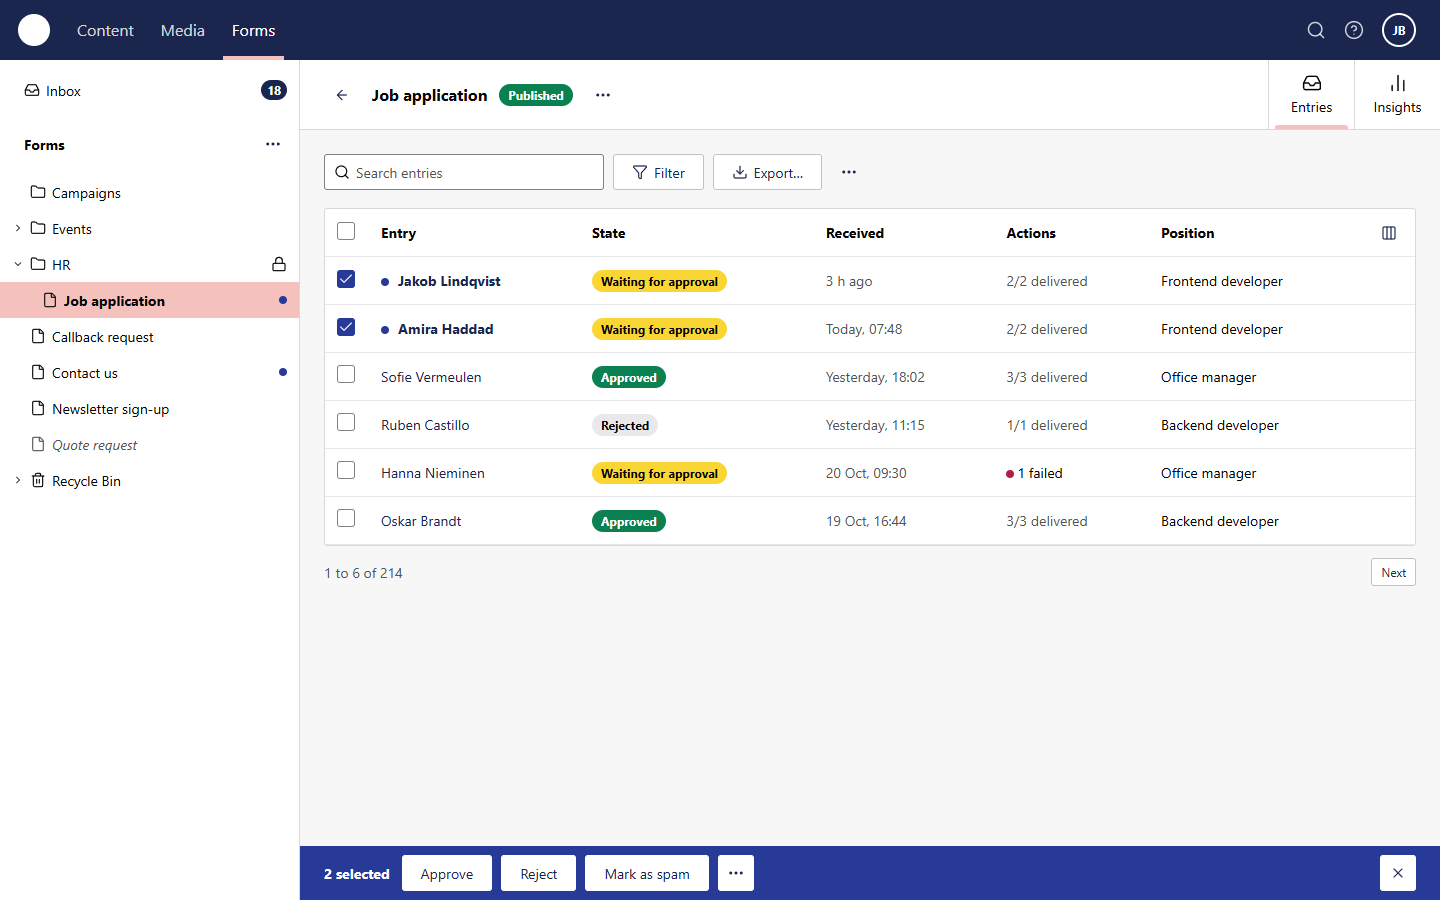
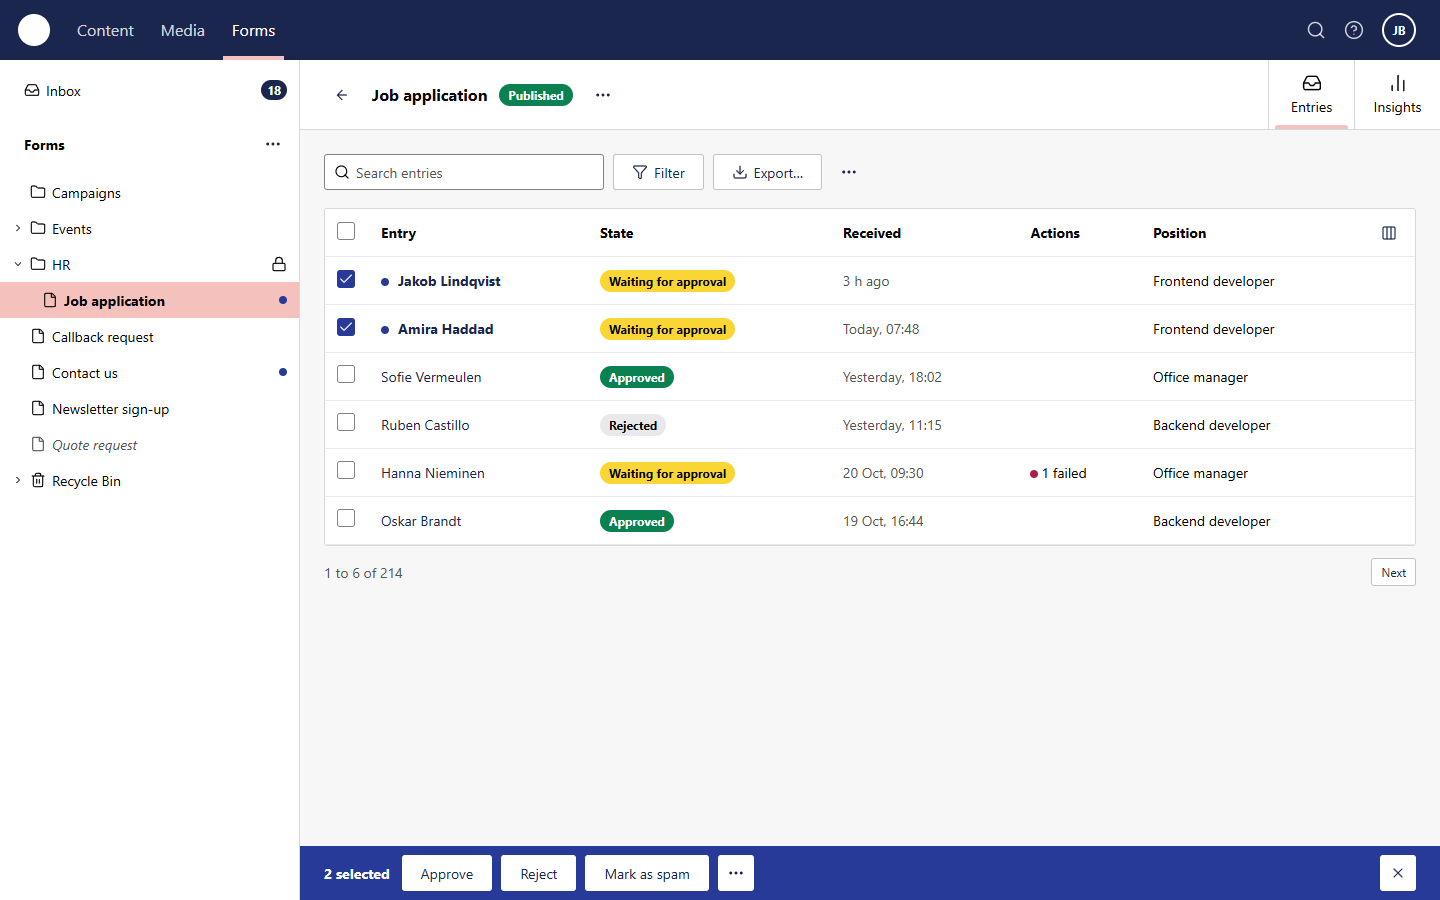
docs(ux): draw the other screens as the pass leaves them
The wireframes of ROADMAP 22.4's pass: the entries' lists and the Inbox
with an "Actions" column that speaks only where something did not go
out, Insights with one "Show as tables" for the screen, and the option
list editor with its rows named by the box's headline. The template
gallery's hidden radios no longer draw the browser's own round shape,
which the checker had found.

diff --git a/docs/ux/wireframes/entries.html b/docs/ux/wireframes/entries.html
@@ -45,8 +45,9 @@
       the form, or preview it and send a test entry".
     - no-results: the chip row's Clear filters is the only one; the sentence points to the filters above.
     - loading, error.
-    At 920 px the Actions and Position columns give way, and a failed delivery shows in the State column,
-    under the chip, so the names keep their width.
+    The Actions column speaks only where something did not go out ("1 failed", "1 uncertain", "2 waiting"); where every
+    action went out, or none ran, its cell is empty (ROADMAP 22.4). At 920 px the Actions and Position columns give way,
+    and a failed delivery shows in the State column, under the chip, so the names keep their width.
   -->
   <main class="wf-main">
     <header class="wf-head">
@@ -95,25 +96,25 @@
               <td class="wf-col-check"><span class="wf-box-check" role="checkbox" aria-checked="false" aria-label="Select entry 214" data-state="default filtered bulk-done export"></span><span class="wf-box-check" role="checkbox" aria-checked="true" aria-label="Select entry 214" data-state="bulk"><i data-i="check"></i></span></td>
               <td><span class="wf-row"><span class="wf-dot"></span><a href="#">Jakob Lindqvist</a><span class="wf-sr">, unseen</span></span></td>
               <td class="en-col-state"><span class="wf-chip wf-chip--warning" data-state="default filtered bulk export">Waiting for approval</span><span class="wf-chip wf-chip--positive" data-state="bulk-done">Approved</span></td>
-              <td class="wf-muted">3 h ago</td><td class="wf-muted en-wide">2/2 delivered</td><td class="en-wide en-col-position">Frontend developer</td><td></td>
+              <td class="wf-muted">3 h ago</td><td class="wf-muted en-wide"></td><td class="en-wide en-col-position">Frontend developer</td><td></td>
             </tr>
             <tr class="wf-unseen" data-state="default filtered bulk bulk-done export">
               <td class="wf-col-check"><span class="wf-box-check" role="checkbox" aria-checked="false" aria-label="Select entry 213" data-state="default filtered bulk-done export"></span><span class="wf-box-check" role="checkbox" aria-checked="true" aria-label="Select entry 213" data-state="bulk"><i data-i="check"></i></span></td>
               <td><span class="wf-row"><span class="wf-dot"></span><a href="#">Amira Haddad</a><span class="wf-sr">, unseen</span></span></td>
               <td class="en-col-state"><span class="wf-chip wf-chip--warning" data-state="default filtered bulk export">Waiting for approval</span><span class="wf-chip wf-chip--positive" data-state="bulk-done">Approved</span></td>
-              <td class="wf-muted">Today, 07:48</td><td class="wf-muted en-wide">2/2 delivered</td><td class="en-wide en-col-position">Frontend developer</td><td></td>
+              <td class="wf-muted">Today, 07:48</td><td class="wf-muted en-wide"></td><td class="en-wide en-col-position">Frontend developer</td><td></td>
             </tr>
             <tr data-state="default bulk bulk-done export">
               <td class="wf-col-check"><span class="wf-box-check" role="checkbox" aria-checked="false" aria-label="Select entry 212"></span></td>
               <td><a href="#">Sofie Vermeulen</a></td>
               <td class="en-col-state"><span class="wf-chip wf-chip--positive">Approved</span></td>
-              <td class="wf-muted">Yesterday, 18:02</td><td class="wf-muted en-wide">3/3 delivered</td><td class="en-wide en-col-position">Office manager</td><td></td>
+              <td class="wf-muted">Yesterday, 18:02</td><td class="wf-muted en-wide"></td><td class="en-wide en-col-position">Office manager</td><td></td>
             </tr>
             <tr data-state="default bulk bulk-done export">
               <td class="wf-col-check"><span class="wf-box-check" role="checkbox" aria-checked="false" aria-label="Select entry 211"></span></td>
               <td><a href="#">Ruben Castillo</a></td>
               <td class="en-col-state"><span class="wf-chip">Rejected</span></td>
-              <td class="wf-muted">Yesterday, 11:15</td><td class="wf-muted en-wide">1/1 delivered</td><td class="en-wide en-col-position">Backend developer</td><td></td>
+              <td class="wf-muted">Yesterday, 11:15</td><td class="wf-muted en-wide"></td><td class="en-wide en-col-position">Backend developer</td><td></td>
             </tr>
             <tr data-state="default bulk bulk-done export">
               <td class="wf-col-check"><span class="wf-box-check" role="checkbox" aria-checked="false" aria-label="Select entry 210"></span></td>
@@ -125,39 +126,39 @@
               <td class="wf-col-check"><span class="wf-box-check" role="checkbox" aria-checked="false" aria-label="Select entry 209"></span></td>
               <td><a href="#">Oskar Brandt</a></td>
               <td class="en-col-state"><span class="wf-chip wf-chip--positive">Approved</span></td>
-              <td class="wf-muted">19 Oct, 16:44</td><td class="wf-muted en-wide">3/3 delivered</td><td class="en-wide en-col-position">Backend developer</td><td></td>
+              <td class="wf-muted">19 Oct, 16:44</td><td class="wf-muted en-wide"></td><td class="en-wide en-col-position">Backend developer</td><td></td>
             </tr>
 
             <!-- The rejected applications, every one ticked, for the privacy officer's delete -->
             <tr data-state="delete">
               <td class="wf-col-check"><span class="wf-box-check" role="checkbox" aria-checked="true" aria-label="Select entry 211"><i data-i="check"></i></span></td>
               <td><a href="#">Ruben Castillo</a></td><td class="en-col-state"><span class="wf-chip">Rejected</span></td>
-              <td class="wf-muted">Yesterday, 11:15</td><td class="wf-muted en-wide">1/1 delivered</td><td class="en-wide en-col-position">Backend developer</td><td></td>
+              <td class="wf-muted">Yesterday, 11:15</td><td class="wf-muted en-wide"></td><td class="en-wide en-col-position">Backend developer</td><td></td>
             </tr>
             <tr data-state="delete">
               <td class="wf-col-check"><span class="wf-box-check" role="checkbox" aria-checked="true" aria-label="Select entry 205"><i data-i="check"></i></span></td>
               <td><a href="#">Elif Demir</a></td><td class="en-col-state"><span class="wf-chip">Rejected</span></td>
-              <td class="wf-muted">16 Oct, 09:12</td><td class="wf-muted en-wide">1/1 delivered</td><td class="en-wide en-col-position">Office manager</td><td></td>
+              <td class="wf-muted">16 Oct, 09:12</td><td class="wf-muted en-wide"></td><td class="en-wide en-col-position">Office manager</td><td></td>
             </tr>
             <tr data-state="delete">
               <td class="wf-col-check"><span class="wf-box-check" role="checkbox" aria-checked="true" aria-label="Select entry 198"><i data-i="check"></i></span></td>
               <td><a href="#">Mateo Rossi</a></td><td class="en-col-state"><span class="wf-chip">Rejected</span></td>
-              <td class="wf-muted">9 Oct, 14:30</td><td class="wf-muted en-wide">1/1 delivered</td><td class="en-wide en-col-position">Frontend developer</td><td></td>
+              <td class="wf-muted">9 Oct, 14:30</td><td class="wf-muted en-wide"></td><td class="en-wide en-col-position">Frontend developer</td><td></td>
             </tr>
             <tr data-state="delete">
               <td class="wf-col-check"><span class="wf-box-check" role="checkbox" aria-checked="true" aria-label="Select entry 190"><i data-i="check"></i></span></td>
               <td><a href="#">Sara Nilsson</a></td><td class="en-col-state"><span class="wf-chip">Rejected</span></td>
-              <td class="wf-muted">2 Oct, 10:05</td><td class="wf-muted en-wide">1/1 delivered</td><td class="en-wide en-col-position">Backend developer</td><td></td>
+              <td class="wf-muted">2 Oct, 10:05</td><td class="wf-muted en-wide"></td><td class="en-wide en-col-position">Backend developer</td><td></td>
             </tr>
             <tr data-state="delete">
               <td class="wf-col-check"><span class="wf-box-check" role="checkbox" aria-checked="true" aria-label="Select entry 183"><i data-i="check"></i></span></td>
               <td><a href="#">Noah Fischer</a></td><td class="en-col-state"><span class="wf-chip">Rejected</span></td>
-              <td class="wf-muted">25 Sep, 16:21</td><td class="wf-muted en-wide">1/1 delivered</td><td class="en-wide en-col-position">Office manager</td><td></td>
+              <td class="wf-muted">25 Sep, 16:21</td><td class="wf-muted en-wide"></td><td class="en-wide en-col-position">Office manager</td><td></td>
             </tr>
             <tr data-state="delete">
               <td class="wf-col-check"><span class="wf-box-check" role="checkbox" aria-checked="true" aria-label="Select entry 47"><i data-i="check"></i></span></td>
               <td><a href="#">Lena Weber</a></td><td class="en-col-state"><span class="wf-chip">Rejected</span></td>
-              <td class="wf-muted">3 Jun, 08:47</td><td class="wf-muted en-wide">1/1 delivered</td><td class="en-wide en-col-position">Marketing manager</td><td></td>
+              <td class="wf-muted">3 Jun, 08:47</td><td class="wf-muted en-wide"></td><td class="en-wide en-col-position">Marketing manager</td><td></td>
             </tr>
           </tbody>
         </table>
@@ -235,7 +236,7 @@
         </label>
         <div class="wf-field">
           <span class="wf-label">Entries</span>
-          <span>All 214 entries, no filters</span>
+          <span>All, no filters</span>
         </div>
         <div class="wf-field" role="group" aria-labelledby="ex-fields">
           <span class="wf-label" id="ex-fields">Fields</span>

diff --git a/docs/ux/wireframes/insights.html b/docs/ux/wireframes/insights.html
@@ -58,14 +58,15 @@
     Overview, in order: views, starts, entries and conversion; entries per day (the last 30 days against the 30 days
     before, day by day); who reaches each page, with the median time to complete; the fields that stop visitors most,
     with the kind of error; the top website pages the entries came from; entries by hour of day, in the site's time zone;
-    and the members who sent entries (shown on sites with members). Every chart has "Show as table", which swaps it for
-    its table in place; the box remembers the choice per user.
+    and the members who sent entries (shown on sites with members). One switch beside Overview and Answers, "Show as
+    tables", swaps every chart for its table in place, on the Overview and the Answers alike, and is kept for the user
+    (ROADMAP 22.4).
 
     States:
     - scrolled: the same Overview scrolled down to its lower boxes.
     - range: the date range's popover, with Group by. Grouping by week or month renames the chart ("Entries per week").
-    - table: every chart of the Overview as its table (each box switches on its own; the shot shows them all at once).
-    - answers: a summary per field (11.5b). Choice fields as bars with "Show as table"; free text as a list of answers,
+    - table: every chart of the Overview as its table, with "Show as tables" on.
+    - answers: a summary per field (11.5b). Choice fields as bars; free text as a list of answers,
       each linking to its entry, never summarised; other fields say how often they were answered.
     - answers-table: the choice fields as tables.
     - empty, off, loading.
@@ -89,7 +90,9 @@
       <div class="wf-toolbar" style="position: relative" data-state="default scrolled range answers answers-table table empty loading">
         <button class="wf-btn" aria-expanded="false" data-state="default scrolled answers answers-table table empty loading"><i data-i="calendar"></i>Last 30 days<i data-i="chevron-down"></i></button>
         <button class="wf-btn" aria-expanded="true" data-state="range"><i data-i="calendar"></i>Last 30 days<i data-i="chevron-down"></i></button>
-        <span class="wf-check"><span class="wf-switch" role="switch" aria-checked="true" aria-labelledby="is-compare"></span><span id="is-compare">Compare with the previous period</span></span>
+        <span class="wf-check" data-state="default scrolled range table empty loading"><span class="wf-switch" role="switch" aria-checked="true" aria-labelledby="is-compare"></span><span id="is-compare">Compare with the previous period</span></span>
+        <span class="wf-check" data-state="default scrolled range answers empty loading"><span class="wf-switch" role="switch" aria-checked="false" aria-labelledby="is-tables"></span><span id="is-tables">Show as tables</span></span>
+        <span class="wf-check" data-state="table answers-table"><span class="wf-switch" role="switch" aria-checked="true" aria-labelledby="is-tables-on"></span><span id="is-tables-on">Show as tables</span></span>
         <div class="wf-seg" role="group" aria-label="View" style="margin-left: auto">
           <button aria-pressed="true" data-state="default scrolled range table empty loading">Overview</button><button aria-pressed="false" data-state="answers answers-table">Overview</button><button aria-pressed="false" data-state="default scrolled range table empty loading">Answers</button><button aria-pressed="true" data-state="answers answers-table">Answers</button>
         </div>
@@ -147,8 +150,6 @@
           <div class="wf-box__head">
             <h2 class="wf-box__title" id="is-per-day">Entries per day</h2>
             <div class="wf-box__end">
-              <button class="wf-btn wf-btn--small" data-state="default scrolled range"><i data-i="list"></i>Show as table</button>
-              <button class="wf-btn wf-btn--small" data-state="table"><i data-i="chart"></i>Show as chart</button>
             </div>
           </div>
           <div class="wf-box__body" data-state="default scrolled range">
@@ -231,8 +232,6 @@
             <div class="wf-box__head">
               <h2 class="wf-box__title" id="is-dropoff">Who reaches each page</h2>
               <div class="wf-box__end">
-                <button class="wf-btn wf-btn--small" data-state="default scrolled range"><i data-i="list"></i>Show as table</button>
-                <button class="wf-btn wf-btn--small" data-state="table"><i data-i="chart"></i>Show as chart</button>
               </div>
             </div>
             <div class="wf-box__body" data-state="default scrolled range">
@@ -257,8 +256,6 @@
             <div class="wf-box__head">
               <h2 class="wf-box__title" id="is-stops">Fields that stop visitors most</h2>
               <div class="wf-box__end">
-                <button class="wf-btn wf-btn--small" data-state="default scrolled range"><i data-i="list"></i>Show as table</button>
-                <button class="wf-btn wf-btn--small" data-state="table"><i data-i="chart"></i>Show as chart</button>
               </div>
             </div>
             <div class="wf-box__body" data-state="default scrolled range">
@@ -280,8 +277,6 @@
             <div class="wf-box__head">
               <h2 class="wf-box__title" id="is-pages">Top website pages</h2>
               <div class="wf-box__end">
-                <button class="wf-btn wf-btn--small" data-state="default scrolled range"><i data-i="list"></i>Show as table</button>
-                <button class="wf-btn wf-btn--small" data-state="table"><i data-i="chart"></i>Show as chart</button>
               </div>
             </div>
             <div class="wf-box__body" data-state="default scrolled range">
@@ -304,8 +299,6 @@
             <div class="wf-box__head">
               <h2 class="wf-box__title" id="is-hours">Entries by hour of day</h2>
               <div class="wf-box__end">
-                <button class="wf-btn wf-btn--small" data-state="default scrolled range"><i data-i="list"></i>Show as table</button>
-                <button class="wf-btn wf-btn--small" data-state="table"><i data-i="chart"></i>Show as chart</button>
               </div>
             </div>
             <div class="wf-box__body" data-state="default scrolled range">
@@ -341,8 +334,6 @@
             <h2 class="wf-box__title" id="is-topic">Topic</h2>
             <div class="wf-box__end">
               <span class="wf-muted">389 answers</span>
-              <button class="wf-btn wf-btn--small" data-state="answers"><i data-i="list"></i>Show as table</button>
-              <button class="wf-btn wf-btn--small" data-state="answers-table"><i data-i="chart"></i>Show as chart</button>
             </div>
           </div>
           <div class="wf-box__body" data-state="answers">
@@ -366,8 +357,6 @@
             <h2 class="wf-box__title" id="is-country">Country</h2>
             <div class="wf-box__end">
               <span class="wf-muted">381 answers</span>
-              <button class="wf-btn wf-btn--small" data-state="answers"><i data-i="list"></i>Show as table</button>
-              <button class="wf-btn wf-btn--small" data-state="answers-table"><i data-i="chart"></i>Show as chart</button>
             </div>
           </div>
           <div class="wf-box__body" data-state="answers">

diff --git a/docs/ux/wireframes/inbox.html b/docs/ux/wireframes/inbox.html
@@ -124,21 +124,21 @@
               <td><span class="wf-row"><span class="wf-dot"></span><a href="#">Anna Svensson, Nordlicht GmbH</a><span class="wf-sr">, unseen</span></span><span class="in-sub">Contact us</span></td>
               <td class="wf-muted in-wide">Contact us</td>
               <td><span class="wf-chip wf-chip--positive">Approved</span></td>
-              <td class="wf-muted">12 min ago</td><td class="wf-muted in-wide">2/2 delivered</td><td></td>
+              <td class="wf-muted">12 min ago</td><td class="wf-muted in-wide"></td><td></td>
             </tr>
             <tr class="wf-unseen">
               <td class="wf-col-check"><span class="wf-box-check" role="checkbox" aria-checked="false" aria-label="Select entry 512"></span></td>
               <td><span class="wf-row"><span class="wf-dot"></span><a href="#">Malik Haddad</a><span class="wf-sr">, unseen</span></span><span class="in-sub">Summer fair sign-up</span></td>
               <td class="wf-muted in-wide">Summer fair sign-up</td>
               <td><span class="wf-chip wf-chip--positive">Approved</span></td>
-              <td class="wf-muted">38 min ago</td><td class="wf-muted in-wide">1/1 delivered</td><td></td>
+              <td class="wf-muted">38 min ago</td><td class="wf-muted in-wide"></td><td></td>
             </tr>
             <tr class="wf-unseen in-cursor">
               <td class="wf-col-check"><span class="wf-box-check" role="checkbox" aria-checked="false" aria-label="Select entry 214"></span></td>
               <td><span class="wf-row"><span class="wf-dot"></span><a href="#">Jakob Lindqvist</a><span class="wf-sr">, unseen</span></span><span class="in-sub">Job application</span></td>
               <td class="wf-muted in-wide">Job application</td>
               <td><span class="wf-chip wf-chip--warning">Waiting for approval</span></td>
-              <td class="wf-muted">3 h ago</td><td class="wf-muted in-wide">2/2 delivered</td><td></td>
+              <td class="wf-muted">3 h ago</td><td class="wf-muted in-wide"></td><td></td>
             </tr>
             <tr>
               <td class="wf-col-check"><span class="wf-box-check" role="checkbox" aria-checked="false" aria-label="Select entry 64"></span></td>
@@ -152,14 +152,14 @@
               <td><span class="wf-row"><a href="#">Tobias Krämer, Krämer &amp; Söhne</a></span><span class="in-sub">Contact us</span></td>
               <td class="wf-muted in-wide">Contact us</td>
               <td><span class="wf-chip wf-chip--positive">Approved</span></td>
-              <td class="wf-muted">Yesterday, 17:52</td><td class="wf-muted in-wide">2/2 delivered</td><td></td>
+              <td class="wf-muted">Yesterday, 17:52</td><td class="wf-muted in-wide"></td><td></td>
             </tr>
             <tr>
               <td class="wf-col-check"><span class="wf-box-check" role="checkbox" aria-checked="false" aria-label="Select entry 598"></span></td>
               <td><span class="wf-row"><a href="#">Entry #598</a></span><span class="in-sub">Newsletter sign-up</span></td>
               <td class="wf-muted in-wide">Newsletter sign-up</td>
               <td><span class="wf-chip">Waiting for confirmation</span></td>
-              <td class="wf-muted">Yesterday, 09:03</td><td class="wf-muted in-wide">none</td><td></td>
+              <td class="wf-muted">Yesterday, 09:03</td><td class="wf-muted in-wide"></td><td></td>
             </tr>
           </tbody>
         </table>

diff --git a/docs/ux/wireframes/option-list.html b/docs/ux/wireframes/option-list.html
@@ -88,11 +88,8 @@
       <div class="ol" data-wf-grid>
         <section class="wf-box" aria-labelledby="ol-options">
           <div class="wf-box__head">
-            <h2 class="wf-box__title" id="ol-options">Options</h2>
-            <span class="wf-box__end wf-muted" data-state="default">Fixed options</span>
-            <span class="wf-box__end wf-muted" data-state="content">Content</span>
-            <span class="wf-box__end wf-muted" data-state="data-type">Data type</span>
-            <span class="wf-box__end wf-muted" data-state="json">JSON address</span>
+            <!-- The box is named by the list's kind, which names its options too: nothing names them again (ROADMAP 22.4) -->
+            <h2 class="wf-box__title" id="ol-options"><span data-state="default">Fixed options</span><span data-state="content">Content</span><span data-state="data-type">Data type</span><span data-state="json">JSON address</span></h2>
           </div>
 
           <!-- Fixed options -->

diff --git a/docs/ux/wireframes/template-gallery.html b/docs/ux/wireframes/template-gallery.html
@@ -18,7 +18,8 @@
     .tg__set + .tg__set { margin-top: var(--wf-space-6); }
     .tg__set > legend { margin-bottom: var(--wf-space-4); padding: 0; }
     .tg__card { position: relative; cursor: pointer; }
-    .tg__card > input { position: absolute; width: 1px; height: 1px; margin: 0; opacity: 0; color: inherit; font: inherit; pointer-events: none; }
+    /* The radio is hidden in its card: drawn as nothing of its own (the browser would round it), its card shows the choice. */
+    .tg__card > input[type="radio"] { position: absolute; width: 1px; height: 1px; margin: 0; border-radius: 0; opacity: 0; appearance: none; color: inherit; font: inherit; pointer-events: none; }
     .tg__card > .wf-card__body { padding-right: var(--wf-space-7); }
     .tg__card:has(> input:checked) { border-color: var(--uui-color-selected); outline: 1px solid var(--uui-color-selected); }
     .tg__card:has(> input:focus-visible) { box-shadow: var(--wf-focus); }
